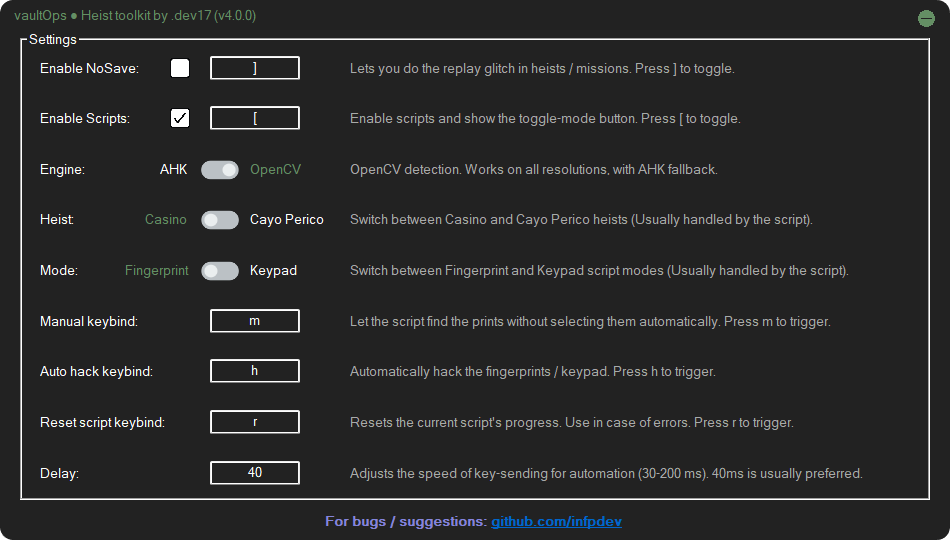
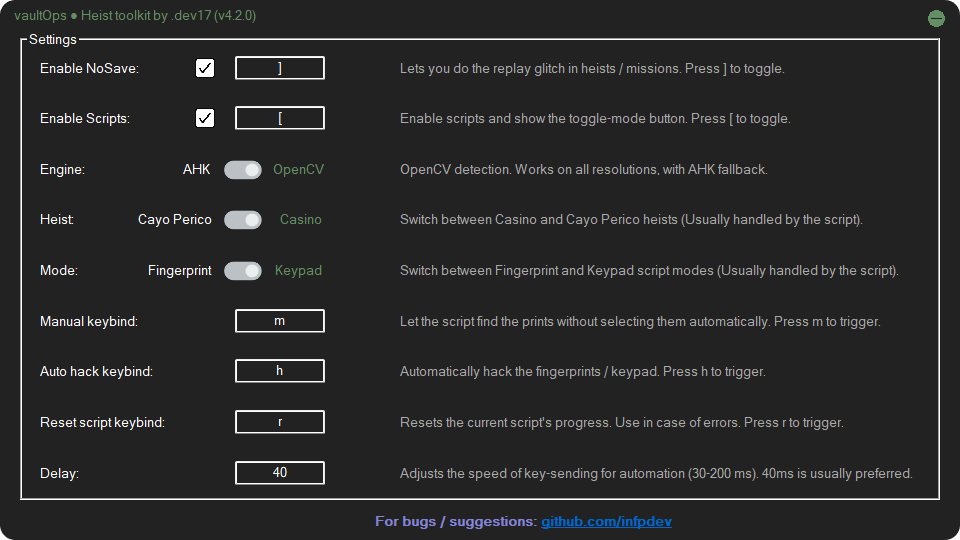
refactor(ui): refine app sizing and layout alignment

diff --git a/README.md b/README.md
@@ -135,7 +135,7 @@ Provided as-is, with no guarantees.
 ## Quick Start
 
 > 🔍 VirusTotal scan (for transparency):  
-> https://www.virustotal.com/gui/file/859a89de000d93c5461c619154e42b0c36eec478b00480b88dae7e2269458762
+> https://www.virustotal.com/gui/file/24c3b59135aedea47eee4c3f38b98f4e2b0a8252130922bcac36ee264201f689
 
 
 <p align="center">
